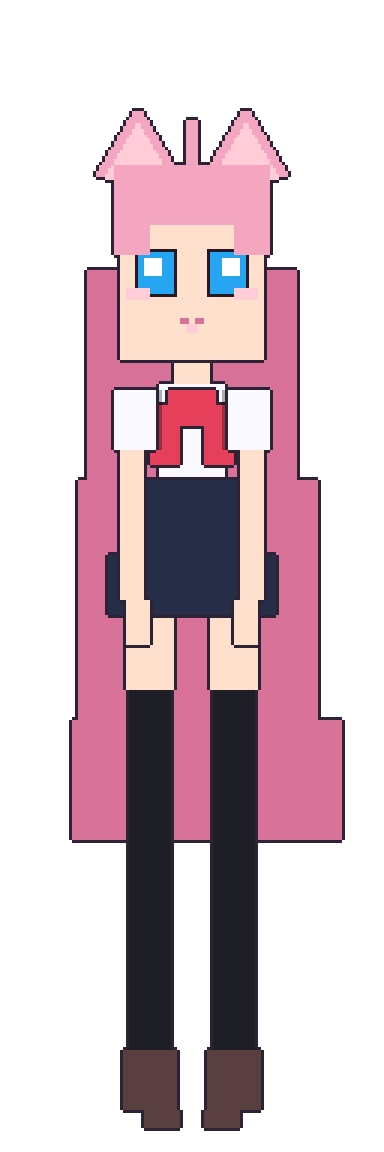
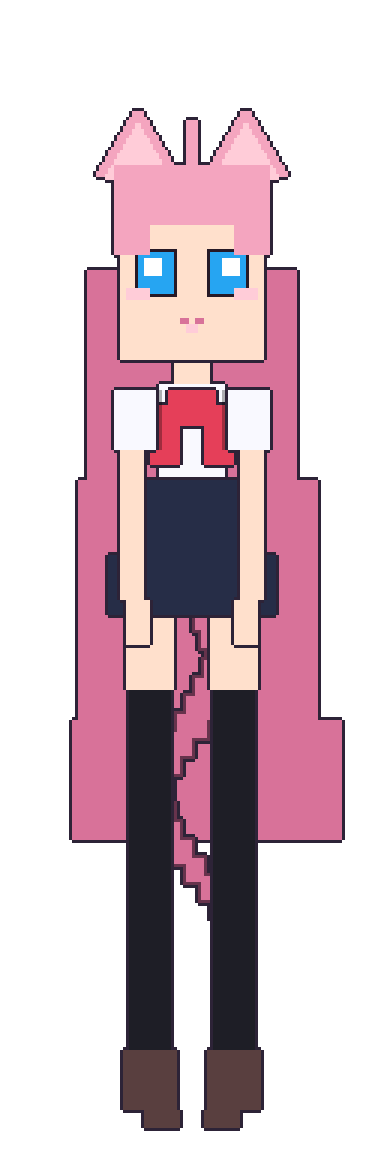
Improve tail rendering and add sprite assets
Refactor hair/tail layering and assets: add a deeper back-hair layer at Z=0, introduce a two-pass cat-tail rendering (edge then body) to remove seams and smooth geometry, add C_TAIL_EDGE constant and tweak tail segmentation and offsets. Adjust final render loop to include Z=0. Also add new image assets (base_sprite.png, Gemini_Generated_Image_8n0wsc8n0wsc8n0w.png) and update angela_pure_blueprint.png.

diff --git a/apps/pixel-angela/dna_body.py b/apps/pixel-angela/dna_body.py
@@ -44,19 +44,28 @@ class AngelaDNA:
         C_SOCK = [0.12, 0.12, 0.15] # 黑絲長襪
         C_SHOE = [0.35, 0.25, 0.25] # 小皮鞋
 
-        # --- Z=1: 後髮與貓尾 (IDs 10-19) ---
-        # 貓尾巴 (動態 S 型擺動)
-        tx = bx
-        for i in range(12):
-            ty = 190 + i * 8
-            tw = 6 - int(abs(i-6)*0.4) # 尾巴根部到尖端的粗細變化
-            offset = int(math.sin(i*0.4) * tail_swing)
-            self._build_part(1, (ty, ty+10), (tx+offset-tw, tx+offset+tw), C_HAIR_DARK, 0.2, 15+i)
+        # --- Z=0: 後髮 (最深層) ---
+        self._build_part(0, (90, 160), (hx-35, hx+35), C_HAIR_DARK, 0.1, 10)
+        self._build_part(0, (160, 240), (hx-40+int(s_mid), hx+40+int(s_mid)), C_HAIR_DARK, 0.1, 11)
+        self._build_part(0, (240, 280), (hx-45+int(s_tip), hx+45+int(s_tip)), C_HAIR_DARK, 0.1, 12)
 
-        # 豐盈的後髮
-        self._build_part(1, (90, 160), (hx-35, hx+35), C_HAIR_DARK, 0.1, 10)
-        self._build_part(1, (160, 240), (hx-40+int(s_mid), hx+40+int(s_mid)), C_HAIR_DARK, 0.1, 11)
-        self._build_part(1, (240, 280), (hx-45+int(s_tip), hx+45+int(s_tip)), C_HAIR_DARK, 0.1, 12)
+        # --- Z=1: 貓尾 (在後髮之前) ---
+        # 貓尾巴 (精修版: 兩階段渲染以消除接縫)
+        C_TAIL_EDGE = [0.4, 0.2, 0.3] 
+        tx = bx
+        # 第一階段: 繪製完整的深色邊緣背景
+        for i in range(20):
+            ty = 190 + i * 6 
+            tw = max(2, 7 - int(i * 0.3)) 
+            offset = int(math.sin(i * 0.4) * tail_swing)
+            self._build_part(1, (ty-1, ty+9), (tx+offset-tw-1, tx+offset+tw+1), C_TAIL_EDGE, 0.2, 15+i)
+        
+        # 第二階段: 繪製主體 (覆蓋在所有邊緣之上，消除分界線)
+        for i in range(20):
+            ty = 190 + i * 6 
+            tw = max(2, 7 - int(i * 0.3)) 
+            offset = int(math.sin(i * 0.4) * tail_swing)
+            self._build_part(1, (ty, ty+8), (tx+offset-tw, tx+offset+tw), C_HAIR_DARK, 0.2, 15+i)
 
         # --- Z=2: 軀幹與腿部 (IDs 100-199, 600-699) ---
         # 脖頸
@@ -181,7 +190,7 @@ class AngelaDNA:
         render = np.zeros((self.height, self.width, 4), dtype=np.uint8)
         OUTLINE_COLOR = np.array([45, 35, 55, 255], dtype=np.uint8) # 深紫色描邊
 
-        for z in range(1, 6):
+        for z in range(0, 6):
             mask = self.voxels[:, :, z, 4] > 0
             color_data = (self.voxels[:, :, z, :3] * 255).astype(np.uint8)
             
